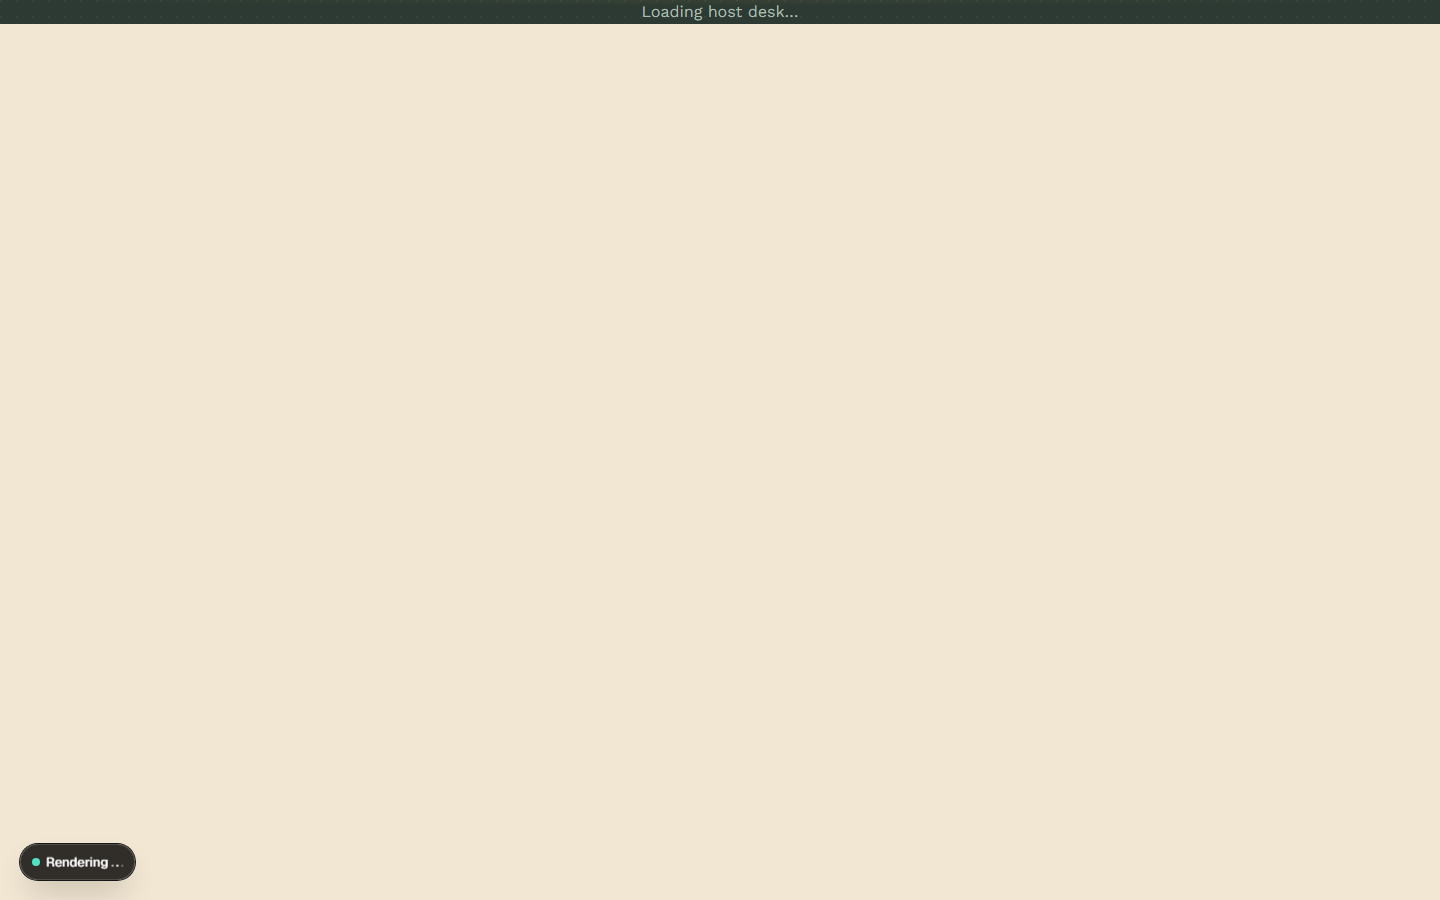
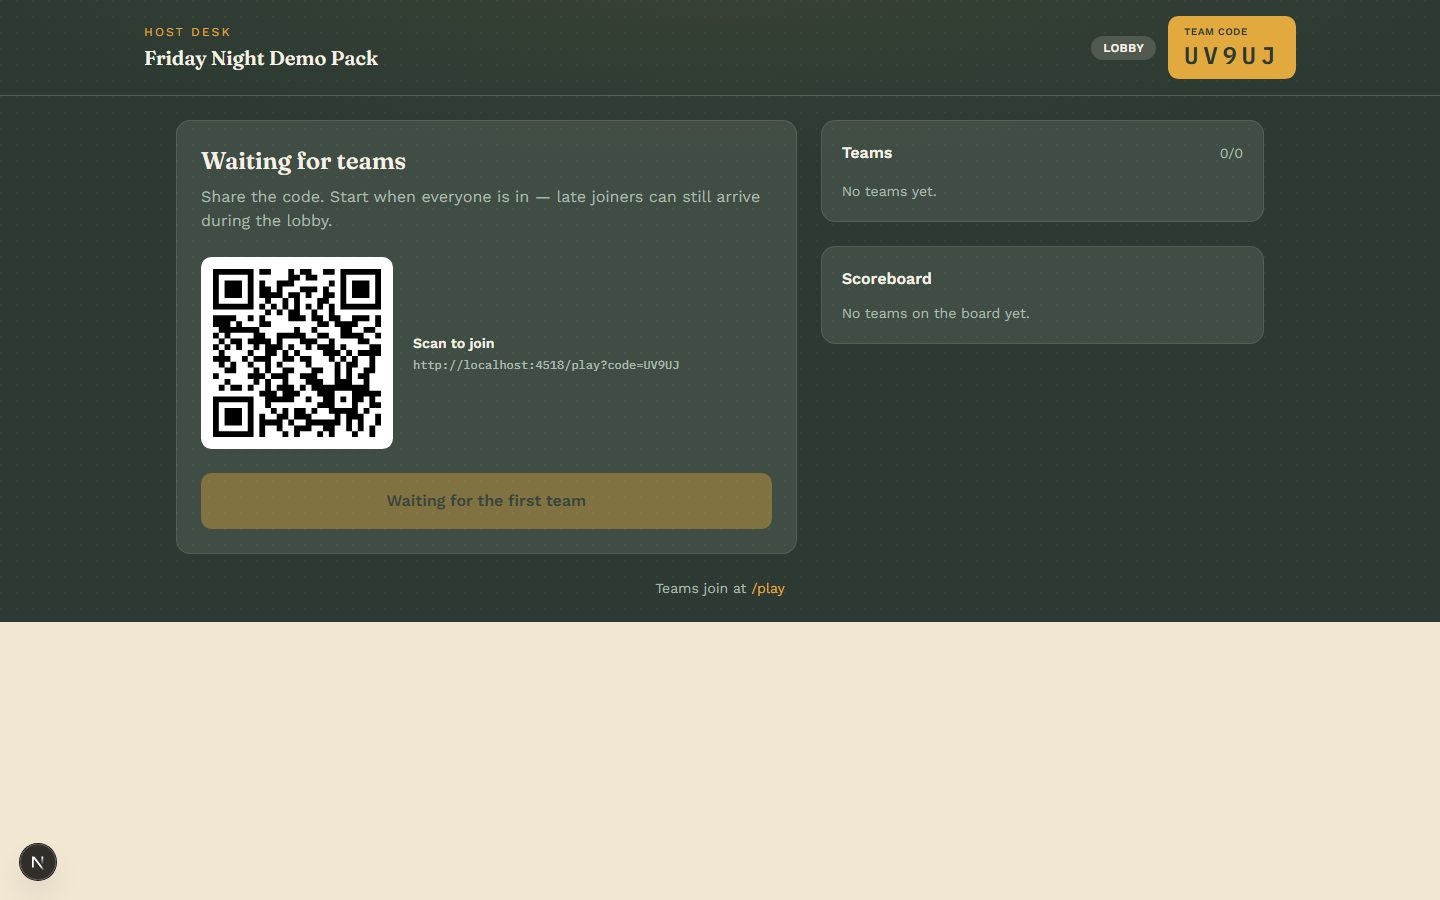
Add a QR join link to the host lobby
The lobby now shows a QR code under "Waiting for teams" that encodes
`<origin>/play?code=<CODE>`, next to the same link in plain text. /play
reads the code back on mount and prefills the session-code field, so a
scanned team only has to pick a name. The origin comes from
window.location at render time, so localhost, preview URLs and
production all encode the right link without configuration.

- src/lib/join-url.ts: buildJoinUrl / readJoinCode, the latter applying
  the join form's own sanitising so a prefilled value is always one the
  form accepts. Unit tested.
- HostDashboard: JoinQr figure in the LOBBY panel (react-qr-code, pure
  SVG, role="img" named "Scan to join").
- TeamPortal: prefill from ?code= when no team is stored.
- quiz-flow e2e: asserts the QR is visible and that /play?code= prefills.
- capture-screenshots: wait for the QR before the lobby shot (it was
  racing the desk's first poll and could capture "Loading host desk…").
- vitest configs: exclude **/.claude/** so tests inside git worktrees
  created by background sessions are not collected by the root run.

diff --git a/src/app/host/[code]/HostDashboard.tsx b/src/app/host/[code]/HostDashboard.tsx
@@ -2,12 +2,14 @@
 
 import { useCallback, useEffect, useState } from "react";
 import Link from "next/link";
+import QRCode from "react-qr-code";
 import { Countdown } from "@/components/Countdown";
 import { Scoreboard } from "@/components/Scoreboard";
 import { StatusBadge } from "@/components/StatusBadge";
 import { TrophyIcon } from "@/components/icons";
 import { topScorers, winningNames } from "@/lib/scoreboard-summary";
 import { readHostToken, writeHostToken } from "@/lib/host-session";
+import { buildJoinUrl } from "@/lib/join-url";
 import type { HostSessionState, HostTeam } from "@/lib/api-types";
 
 export function HostDashboard({ code }: { code: string }) {
@@ -179,6 +181,7 @@ export function HostDashboard({ code }: { code: string }) {
               <p className="mt-2 text-stage-muted">
                 Share the code. Start when everyone is in — late joiners can still arrive during the lobby.
               </p>
+              <JoinQr code={state.code} />
               <button
                 type="button"
                 onClick={() => advance("start")}
@@ -353,5 +356,23 @@ export function HostDashboard({ code }: { code: string }) {
         </p>
       </main>
     </div>
+  );
+}
+
+// Scannable join link for the lobby. The origin is read at render time so
+// the same build works on localhost, a preview URL, and production. This is
+// a client component, so window is always defined by the time it renders.
+function JoinQr({ code }: { code: string }) {
+  const joinUrl = buildJoinUrl(window.location.origin, code);
+  return (
+    <figure className="mt-6 flex flex-col items-center gap-3 sm:flex-row sm:items-center sm:gap-5">
+      <div className="rounded-xl bg-white p-3">
+        <QRCode value={joinUrl} size={168} role="img" aria-label="Scan to join" />
+      </div>
+      <figcaption className="text-center text-sm text-stage-muted sm:text-left">
+        <span className="block font-semibold text-stage-fg">Scan to join</span>
+        <span className="mt-1 block break-all font-mono text-xs">{joinUrl}</span>
+      </figcaption>
+    </figure>
   );
 }

diff --git a/src/lib/join-url.test.ts b/src/lib/join-url.test.ts
@@ -1,0 +1,30 @@
+import { describe, expect, it } from "vitest";
+import { buildJoinUrl, readJoinCode } from "@/lib/join-url";
+
+describe("buildJoinUrl", () => {
+  it("points at /play with the session code as a query parameter", () => {
+    expect(buildJoinUrl("https://quiz.example", "AB3K7")).toBe("https://quiz.example/play?code=AB3K7");
+  });
+
+  it("tolerates a trailing slash on the origin", () => {
+    expect(buildJoinUrl("https://quiz.example/", "AB3K7")).toBe("https://quiz.example/play?code=AB3K7");
+  });
+});
+
+describe("readJoinCode", () => {
+  it("returns the code from a ?code= query string, uppercased", () => {
+    expect(readJoinCode("?code=ab3k7")).toBe("AB3K7");
+  });
+
+  it("returns an empty string when the parameter is missing", () => {
+    expect(readJoinCode("")).toBe("");
+    expect(readJoinCode("?other=1")).toBe("");
+  });
+
+  it("strips characters outside the join-code alphabet and caps at five", () => {
+    // Mirrors the input's own sanitising so a mangled or padded link can't
+    // prefill something the form would never accept.
+    expect(readJoinCode("?code=a-b3k7xx")).toBe("AB3K7");
+    expect(readJoinCode("?code=01IO")).toBe("");
+  });
+});

diff --git a/e2e/quiz-flow.spec.ts b/e2e/quiz-flow.spec.ts
@@ -14,10 +14,14 @@ test("host runs a live round and a team answers correctly", async ({ browser, ba
   const code = hostPage.url().split("/host/")[1];
   expect(code).toMatch(/^[A-Z0-9]{5}$/);
 
+  // The lobby shows a QR code that encodes the join link with the code
+  // baked in; a team that scans it lands on /play with the code prefilled.
+  await expect(hostPage.getByRole("img", { name: "Scan to join" })).toBeVisible();
+
   const teamContext = await browser.newContext();
   const teamPage = await teamContext.newPage();
-  await teamPage.goto("/play");
-  await teamPage.getByLabel("Session code").fill(code);
+  await teamPage.goto(`/play?code=${code}`);
+  await expect(teamPage.getByLabel("Session code")).toHaveValue(code);
   await teamPage.getByLabel("Team name").fill("Quiz Pigs");
   await teamPage.getByRole("button", { name: "Join session" }).click();
   await expect(teamPage.getByText("Sit tight.")).toBeVisible();

diff --git a/src/lib/join-url.ts b/src/lib/join-url.ts
@@ -1,0 +1,19 @@
+/**
+ * The team-facing join link the host desk shows as a QR code. `/play` reads
+ * the `code` parameter back with `readJoinCode` to prefill the session-code
+ * field, so a scan lands a team one tap from joining.
+ */
+export function buildJoinUrl(origin: string, code: string): string {
+  return `${origin.replace(/\/+$/, "")}/play?code=${encodeURIComponent(code)}`;
+}
+
+/**
+ * Reads `?code=` out of a query string and applies the same sanitising as
+ * the join form's input (uppercase, join-code alphabet only, five chars),
+ * so a prefilled value is always one the form would accept.
+ */
+export function readJoinCode(search: string): string {
+  const raw = new URLSearchParams(search).get("code") ?? "";
+  const cleaned = raw.toUpperCase().replace(/[^A-Z2-9]/g, "").slice(0, 5);
+  return cleaned.length === 5 ? cleaned : "";
+}

diff --git a/src/app/play/TeamPortal.tsx b/src/app/play/TeamPortal.tsx
@@ -12,6 +12,7 @@ import {
   writeStoredTeam,
   type StoredTeam,
 } from "@/lib/team-session";
+import { readJoinCode } from "@/lib/join-url";
 import type { TeamSessionState } from "@/lib/api-types";
 
 export function TeamPortal() {
@@ -41,6 +42,10 @@ export function TeamPortal() {
     if (existing) {
       setCode(existing.code);
       setName(existing.teamName);
+    } else {
+      // Arriving via the host desk's QR code (/play?code=ABCDE): prefill the
+      // session code so the team only has to pick a name.
+      setCode(readJoinCode(window.location.search));
     }
     setHydrated(true);
   }, []);

diff --git a/scripts/capture-screenshots.ts b/scripts/capture-screenshots.ts
@@ -117,6 +117,9 @@ async function main() {
     await host.getByRole("button", { name: "Start live session" }).click();
     await host.waitForURL(/\/host\//);
     const code = host.url().split("/host/")[1];
+    // The desk renders "Loading host desk…" until its first poll lands; the
+    // lobby's QR code is the last thing to appear, so wait for that.
+    await host.getByRole("img", { name: "Scan to join" }).waitFor();
     await shot(host, "05-host-lobby.png");
 
     // Mobile context — the team portal, as a phone-shaped viewport.

diff --git a/vitest.integration.config.ts b/vitest.integration.config.ts
@@ -10,6 +10,7 @@ export default defineConfig({
   test: {
     environment: "node",
     include: ["**/*.integration.test.ts"],
+    exclude: ["**/node_modules/**", "**/.claude/**"],
     globalSetup: "./vitest.integration.setup.ts",
     env: {
       DATABASE_URL: `file:${path.resolve(__dirname, "prisma/test.db")}`,

diff --git a/vitest.config.ts b/vitest.config.ts
@@ -9,6 +9,6 @@ export default defineConfig({
   },
   test: {
     environment: "node",
-    exclude: ["**/node_modules/**", "**/*.integration.test.ts", "e2e/**"],
+    exclude: ["**/node_modules/**", "**/*.integration.test.ts", "e2e/**", "**/.claude/**"],
   },
 });

diff --git a/README.md b/README.md
@@ -15,7 +15,7 @@ actual live session end-to-end — nothing here is mocked or hand-edited).
 |---|---|
 | ![Landing page](docs/screenshots/01-landing.png) Landing page | ![Generate wizard](docs/screenshots/02-create-wizard.png) AI generation wizard |
 | ![Pack editor](docs/screenshots/03-pack-editor.png) Pack editor | ![Print preview](docs/screenshots/04-print-preview.png) Presenter script / print preview |
-| ![Host lobby](docs/screenshots/05-host-lobby.png) Host desk — lobby | ![Team join](docs/screenshots/06-team-join.png) Team portal — join screen |
+| ![Host lobby](docs/screenshots/05-host-lobby.png) Host desk — lobby, with a scannable join link | ![Team join](docs/screenshots/06-team-join.png) Team portal — join screen |
 | ![Host: question live](docs/screenshots/07-host-question-live.png) Host desk — question live | ![Team: answering](docs/screenshots/08-team-answer.png) Team portal — answering |
 | ![Host: live submission](docs/screenshots/09-host-live-submission.png) Host desk — live submission, auto-scored | ![Host: reveal + scoreboard](docs/screenshots/10-host-reveal-scoreboard.png) Host desk — revealed, scoreboard updated |
 | ![Team: reveal](docs/screenshots/11-team-reveal.png) Team portal — reveal, correct + score | |
